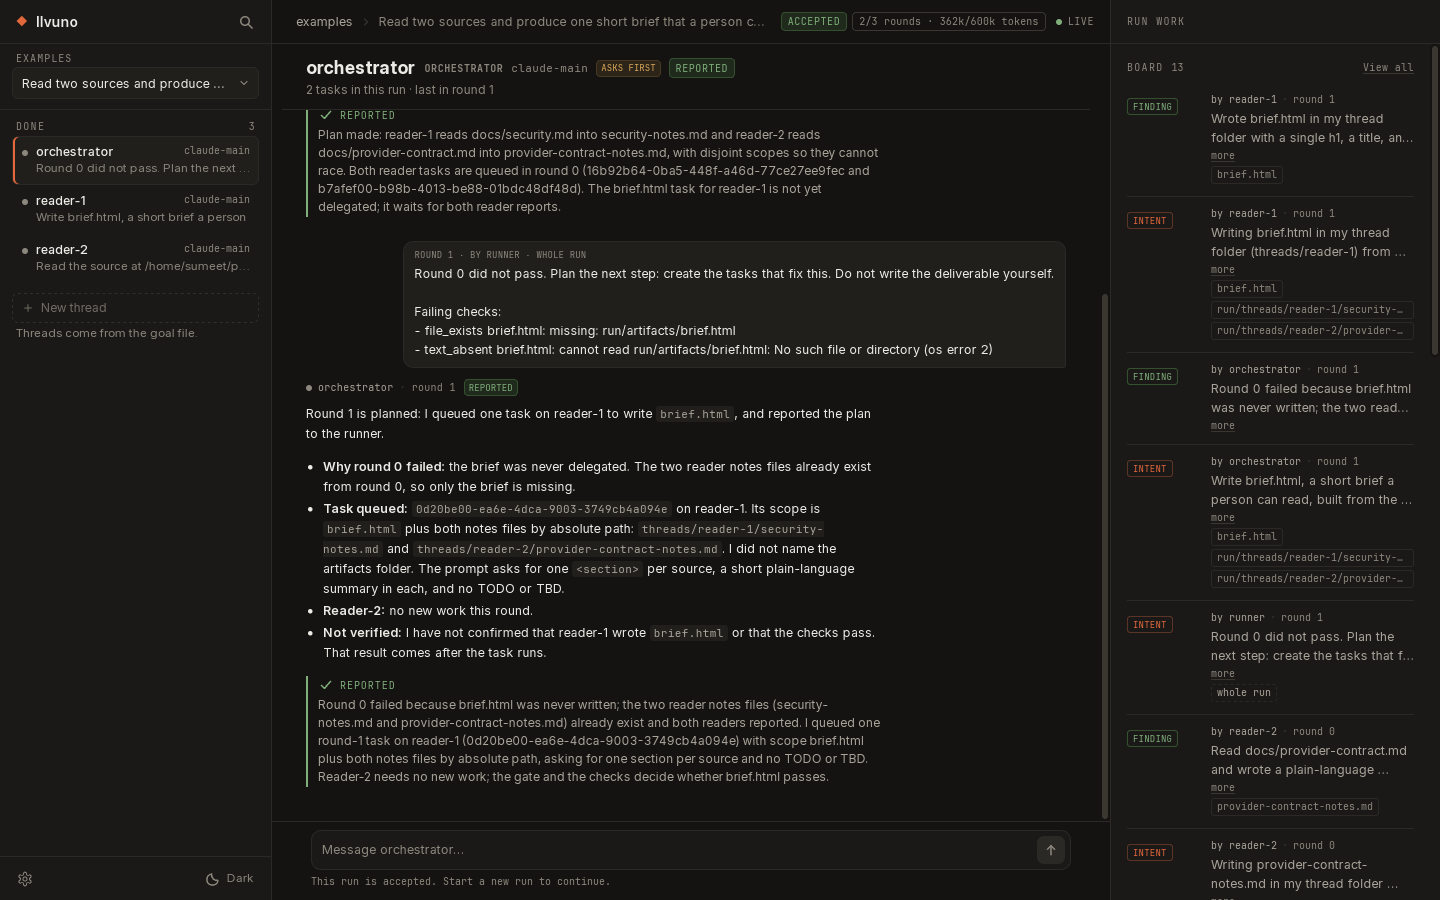
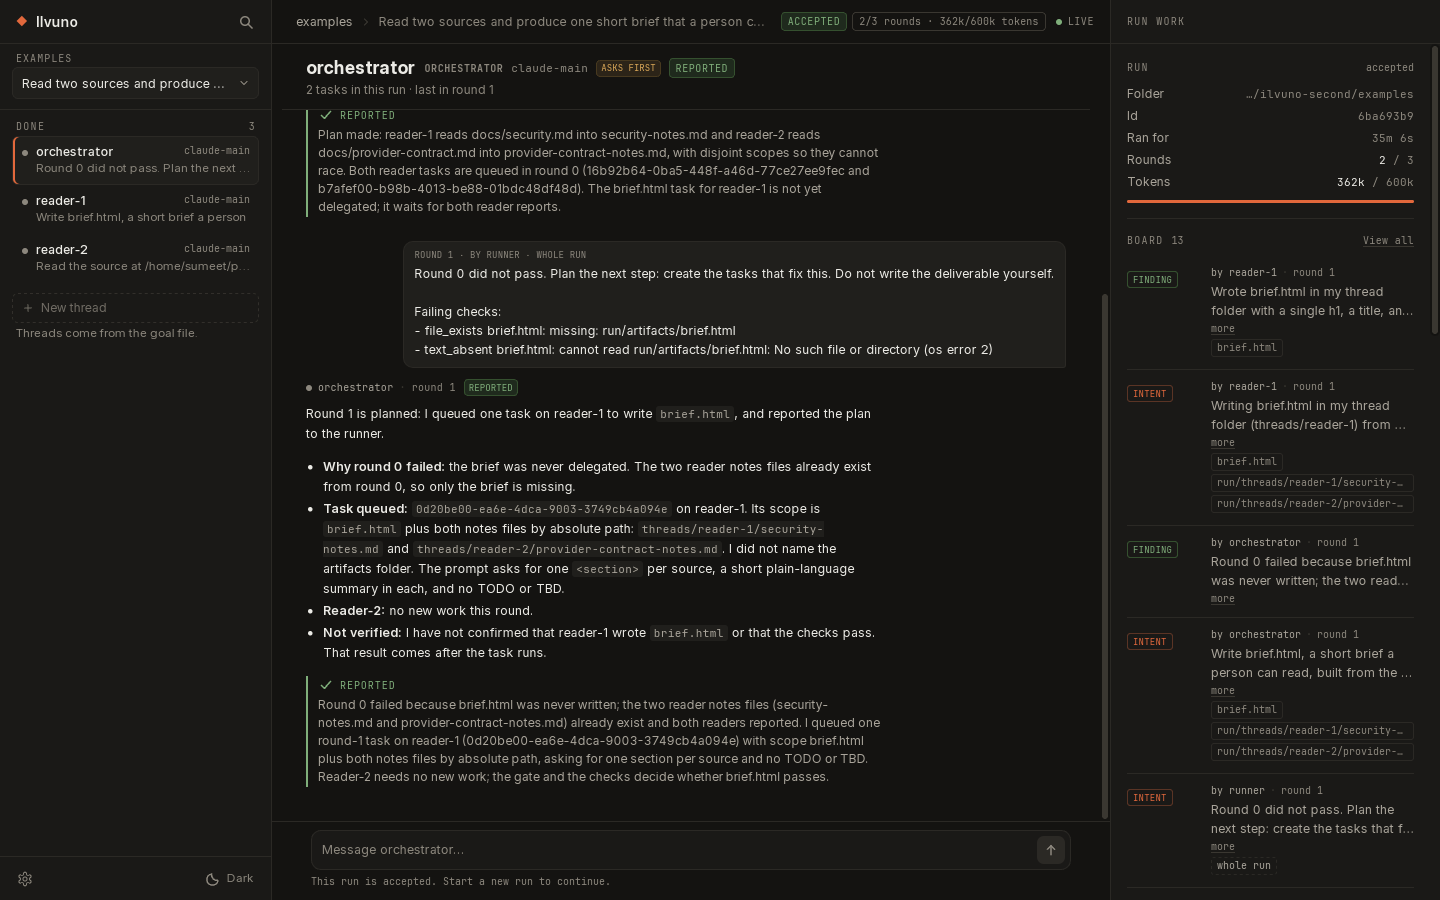
feat(window): the run's facts, back in the rail
The v3 shell showed what a run had done; v4 dropped it. The right rail now
opens with a Run block: folder, run id, how long it has run, rounds used against
the cap, tokens used against the cap, and a bar. Every value is a field on
GET /runs/:id. There is no dollar figure, because the engine records no cost —
the $0.12 the v3 mock showed was invented.

tools/shot.sh takes ILVUNO_WINDOW_SIZE now. Without a window manager, resizing
the X window does not resize the page inside it, so a width check at 1280 was
really a 1440 page cropped to 1280. tools/shots.sh also enforces its own
1440x900 display now.

Screenshots regenerated, threads.png shows the block.

diff --git a/crates/desktop/ui/app.js b/crates/desktop/ui/app.js
@@ -462,6 +462,13 @@
     return String(path || '').replace(/^\/home\/[^/]+/, '~');
   }
 
+  // The rail has room for two folder names, not the whole path; the title attribute keeps the rest.
+  function tailPath(path, keep = 2) {
+    const parts = String(path || '').split('/').filter(Boolean);
+    if (parts.length <= keep) return parts.join('/');
+    return '…/' + parts.slice(-keep).join('/');
+  }
+
   // Paths are shown relative to the repo root, the same way the export does it.
   function rootPath() {
     const project = projectPath();
@@ -1183,6 +1190,7 @@
     }).join('');
 
     return `
+      ${runFactsHtml(state.detail.run)}
       <section class="fsec" aria-labelledby="sec-board">
         <div class="fsec-head"><h2 id="sec-board">Board</h2><span class="n">${ledger.length}</span>
           <button class="fsec-link" data-act="board">View all</button></div>
@@ -1210,6 +1218,35 @@
   function roundOfArtifact(a) {
     const m = String(a.path || '').match(/\/rounds\/r(\d+)\//);
     return m ? Number(m[1]) : -1;
+  }
+
+  function fmtDuration(ms) {
+    const s = Math.max(0, Math.round(Number(ms) / 1000));
+    if (s < 60) return `${s}s`;
+    const m = Math.floor(s / 60);
+    if (m < 60) return `${m}m ${s % 60}s`;
+    return `${Math.floor(m / 60)}h ${String(m % 60).padStart(2, '0')}m`;
+  }
+
+  // What the run is, in one block. Every value is a field on GET /runs/:id; nothing is estimated,
+  // and a missing value shows a dash rather than a zero.
+  function runFactsHtml(run) {
+    const budget = state.detail?.goal?.budget || {};
+    const started = Number(run.started_at || 0);
+    const ranFor = started ? fmtDuration((run.ended_at ? Number(run.ended_at) : Date.now()) - started) : '—';
+    const tokens = Number(run.tokens_used || 0);
+    const cap = Number(budget.tokens || 0);
+    const pct = cap ? Math.min(100, Math.round((tokens / cap) * 100)) : 0;
+    return `
+      <section class="fsec" aria-labelledby="sec-run">
+        <div class="fsec-head"><h2 id="sec-run">Run</h2><span class="n">${esc(statusWord(run.status))}</span></div>
+        <div class="frow"><span>Folder</span><span class="v" title="${esc(run.project || '')}">${esc(tailPath(run.project) || '—')}</span></div>
+        <div class="frow"><span>Id</span><span class="v" title="${esc(run.id || '')}">${esc(String(run.id || '—').slice(0, 8))}</span></div>
+        <div class="frow"><span>Ran for</span><span class="v">${esc(ranFor)}</span></div>
+        <div class="frow"><span>Rounds</span><span class="v"><b>${roundsUsed()}</b>${budget.rounds ? ' / ' + esc(budget.rounds) : ''}</span></div>
+        <div class="frow"><span>Tokens</span><span class="v"><b>${compact(tokens)}</b>${cap ? ' / ' + compact(cap) : ''}</span></div>
+        ${cap ? `<div class="bar${pct >= 90 ? ' hot' : ''}" role="img" aria-label="${pct}% of this run's token budget used"><i style="width:${pct}%"></i></div>` : ''}
+      </section>`;
   }
 
   function renderFacts() {

diff --git a/crates/desktop/ui/style.css b/crates/desktop/ui/style.css
@@ -279,8 +279,11 @@ svg.ic.sm{width:12px;height:12px}
 .fsec-link{margin-left:auto;font-family:var(--mono);font-size:9.5px;line-height:1;letter-spacing:.04em;color:var(--ink-3);text-decoration:underline;text-underline-offset:2px;text-decoration-color:var(--line-2);white-space:nowrap}
 .fsec-link:hover{color:var(--ink);text-decoration-color:var(--ink-3)}
 .frow{display:flex;justify-content:space-between;align-items:baseline;gap:12px;padding:3px 0;font-size:12px;line-height:1.4;color:var(--ink-2)}
-.frow .v{font-family:var(--mono);font-size:10.5px;color:var(--ink-3);text-align:right;white-space:nowrap;font-variant-numeric:tabular-nums}
+.frow .v{min-width:0;overflow:hidden;text-overflow:ellipsis;font-family:var(--mono);font-size:10.5px;color:var(--ink-3);text-align:right;white-space:nowrap;font-variant-numeric:tabular-nums}
 .frow .v b{font-weight:400;color:var(--ink)}
+.bar{height:3px;margin:7px 0 1px;border-radius:2px;background:var(--line);overflow:hidden}
+.bar i{display:block;height:100%;background:var(--accent)}
+.bar.hot i{background:var(--red)}
 .chk-round{margin:7px 0 2px;font-family:var(--mono);font-size:9px;line-height:1.2;letter-spacing:.1em;text-transform:uppercase;color:var(--ink-3)}
 .chk-round:first-child{margin-top:0}
 .chk{display:grid;grid-template-columns:minmax(0,1fr) auto;align-items:start;gap:8px;padding:3px 0}

diff --git a/crates/desktop/src/main.rs b/crates/desktop/src/main.rs
@@ -3,6 +3,24 @@
 
 fn main() {
     tauri::Builder::default()
+        .setup(|app| {
+            // ILVUNO_WINDOW_SIZE=1280x900 opens the window at another size. tools/shot.sh uses it to
+            // check the layout at a width other than the 1440x900 in tauri.conf.json: without a window
+            // manager, resizing the X window does not resize the page inside it.
+            if let Some((w, h)) = size_from_env() {
+                use tauri::Manager;
+                if let Some(win) = app.get_webview_window("main") {
+                    win.set_size(tauri::PhysicalSize::new(w, h))?;
+                }
+            }
+            Ok(())
+        })
         .run(tauri::generate_context!())
         .expect("the Ilvuno window failed to start");
+}
+
+fn size_from_env() -> Option<(u32, u32)> {
+    let raw = std::env::var("ILVUNO_WINDOW_SIZE").ok()?;
+    let (w, h) = raw.split_once('x')?;
+    Some((w.trim().parse().ok()?, h.trim().parse().ok()?))
 }
